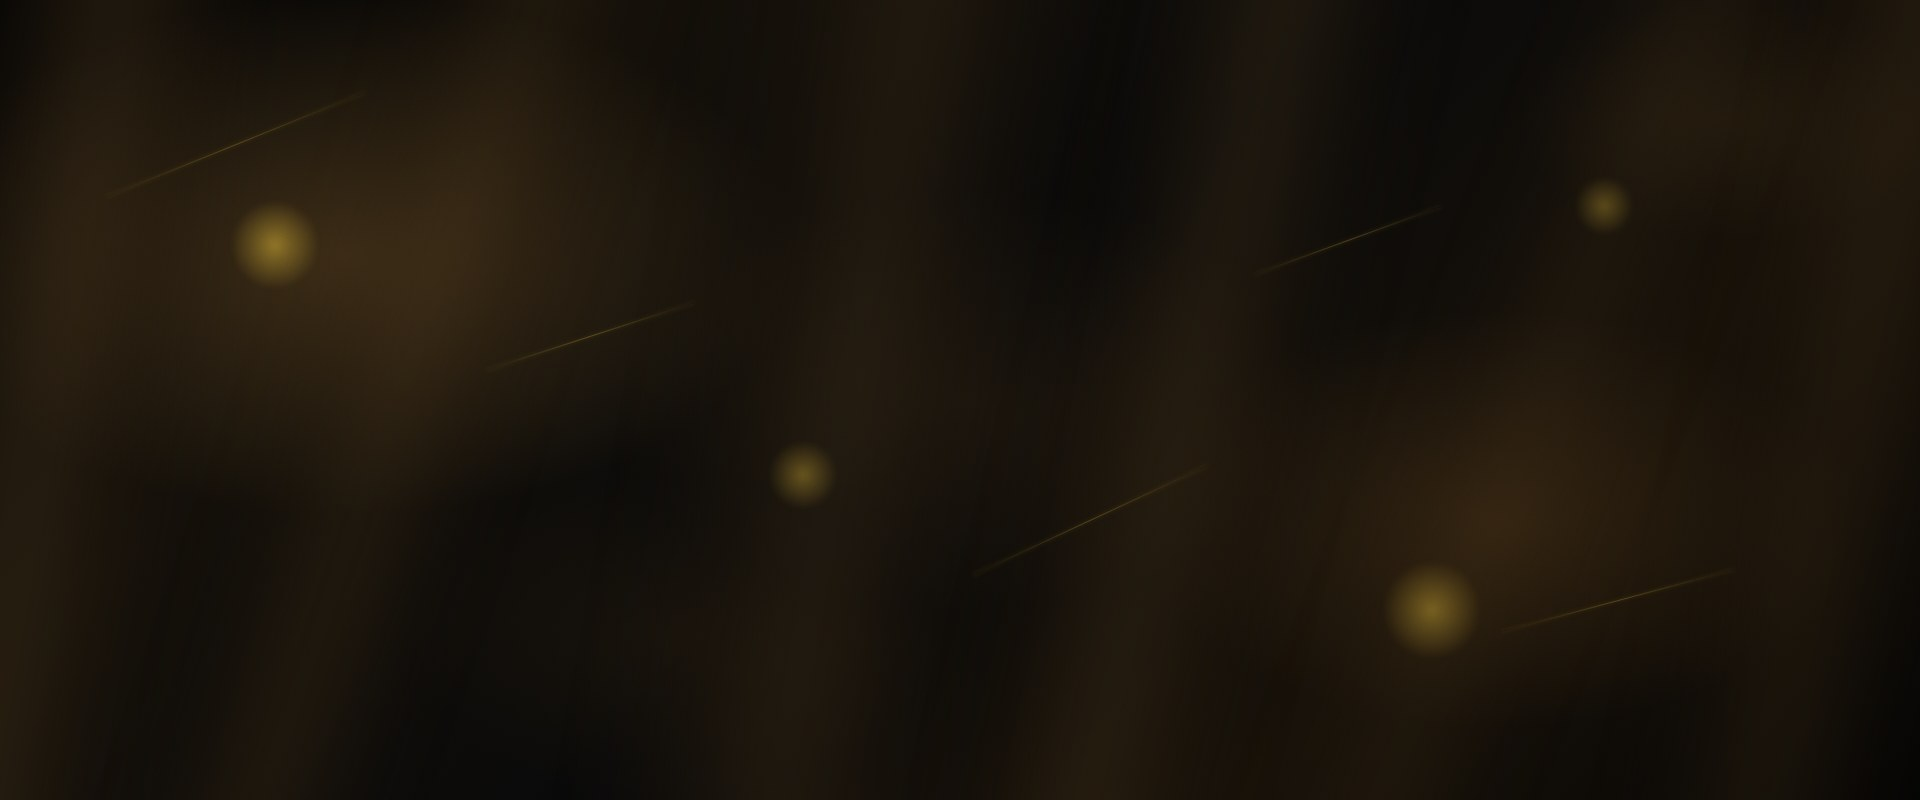
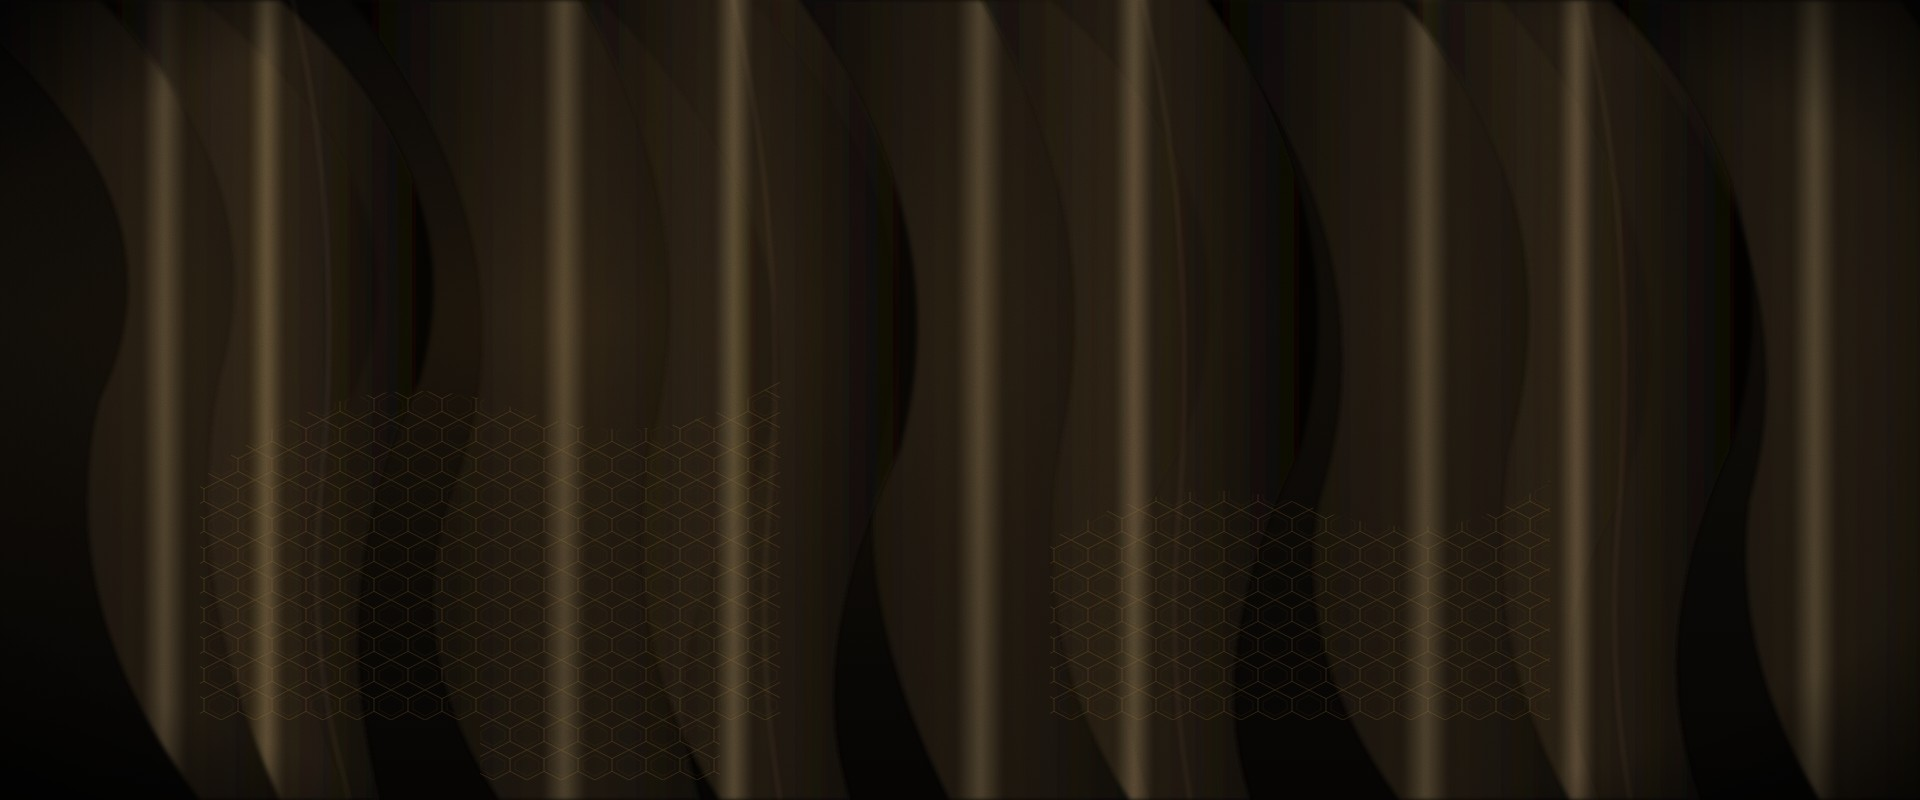
Refine hero background generator (curved folds + honeycomb mesh)
Replaced the previous CSS gradient hero-bg.jpg with a richer
SVG-based render using Playwright:
- Curved fabric-fold paths (Bezier curves) instead of skewed
  rectangles, giving real flowing silk shape.
- Gold honeycomb pattern (hex tile) clipped to specific valleys,
  matching the inspiration image's lace-like accents.
- Subtle warm radial glow + vignette + cloth-grain noise overlay.

This is still a CSS approximation, not the photographic velvet
reference. For the exact look, the store owner can upload the
real image via Admin → Settings → Hero Background.

Cache buster bumped to v=20260519e.

diff --git a/admin.html b/admin.html
@@ -24,7 +24,7 @@
   <link rel="preconnect" href="https://fonts.gstatic.com" crossorigin>
   <link href="https://fonts.googleapis.com/css2?family=Tajawal:wght@400;500;700;800&family=Cairo:wght@500;700&display=swap" rel="stylesheet">
 
-  <link rel="stylesheet" href="assets/css/admin.css?v=20260519d" />
+  <link rel="stylesheet" href="assets/css/admin.css?v=20260519e" />
 </head>
 <body>
 
@@ -527,7 +527,7 @@
 
 <div class="toast" id="toast"></div>
 
-<script src="assets/js/data.js?v=20260519d"></script>
-<script src="assets/js/admin.js?v=20260519d"></script>
+<script src="assets/js/data.js?v=20260519e"></script>
+<script src="assets/js/admin.js?v=20260519e"></script>
 </body>
 </html>

diff --git a/index.html b/index.html
@@ -42,7 +42,7 @@
   <link rel="preconnect" href="https://fonts.gstatic.com" crossorigin>
   <link href="https://fonts.googleapis.com/css2?family=Tajawal:wght@400;500;700;800&family=Cairo:wght@500;700&display=swap" rel="stylesheet">
 
-  <link rel="stylesheet" href="assets/css/customer.css?v=20260519d" />
+  <link rel="stylesheet" href="assets/css/customer.css?v=20260519e" />
 </head>
 <body>
 
@@ -472,7 +472,7 @@
   <!-- ============ تنبيه ============ -->
   <div class="toast" id="toast">تمت الإضافة إلى السلة</div>
 
-  <script src="assets/js/data.js?v=20260519d"></script>
-  <script src="assets/js/customer.js?v=20260519d"></script>
+  <script src="assets/js/data.js?v=20260519e"></script>
+  <script src="assets/js/customer.js?v=20260519e"></script>
 </body>
 </html>